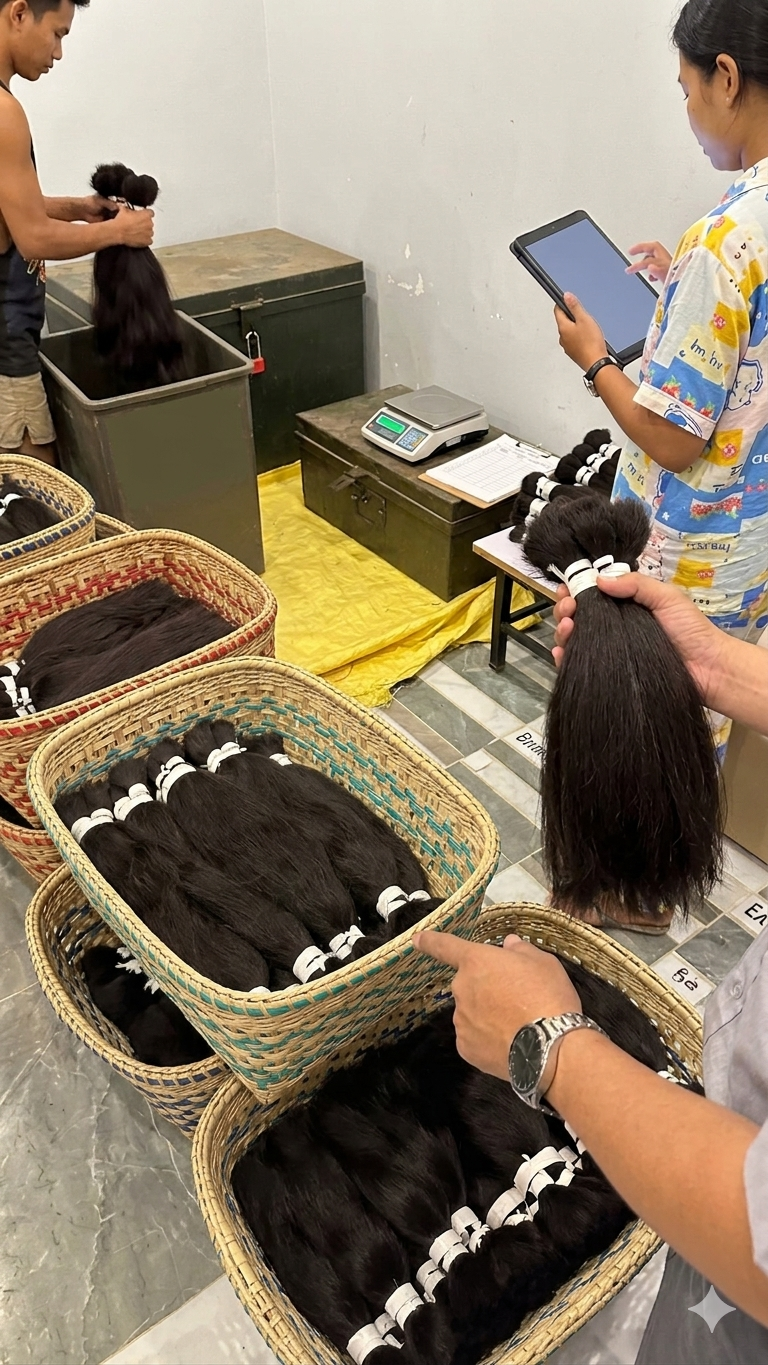
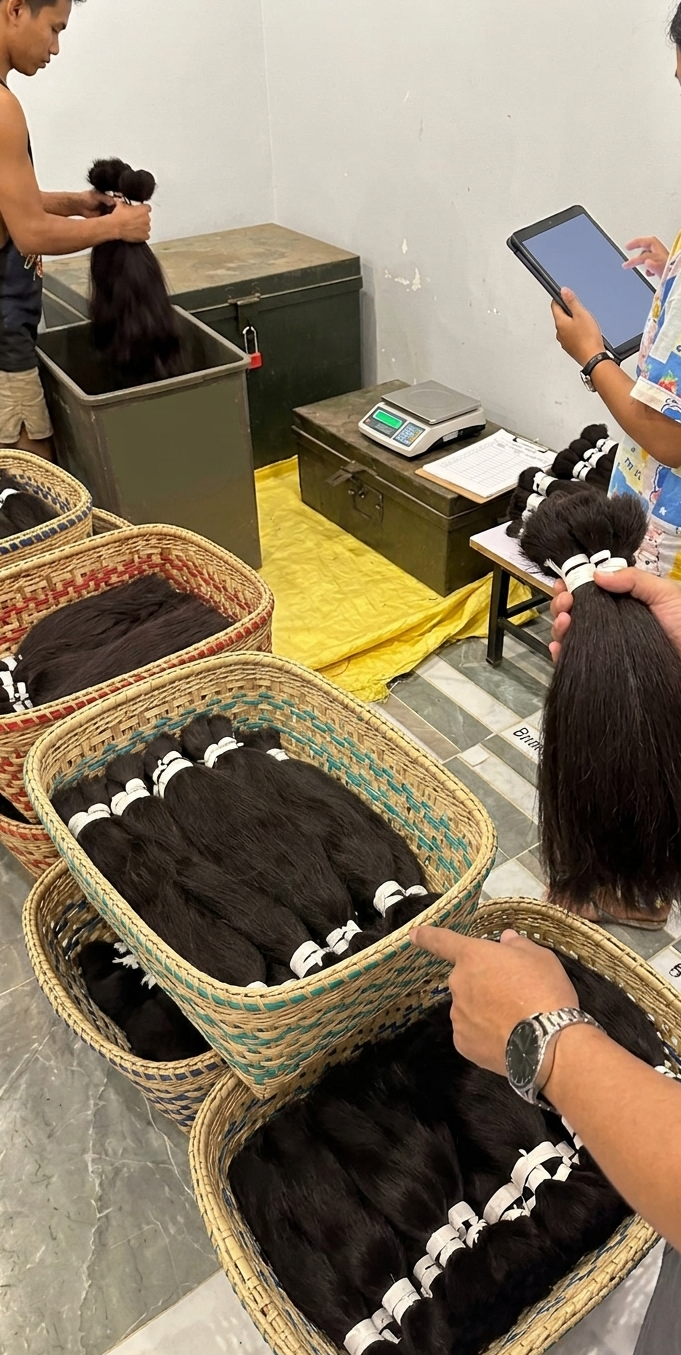
update:fix

diff --git a/app/components/GoldGallery.tsx b/app/components/GoldGallery.tsx
@@ -1,0 +1,77 @@
+"use client";
+
+import { useState } from "react";
+import Image, { type StaticImageData } from "next/image";
+import g1 from "@/public/gold/goldOne.jpg";
+import g2 from "@/public/gold/goldTwo.jpg";
+import g3 from "@/public/gold/goldThree.jpg";
+import g4 from "@/public/gold/goldFour.jpg";
+import g5 from "@/public/gold/goldfive.jpg";
+import g6 from "@/public/gold/goldsix.jpg";
+import g7 from "@/public/gold/goldSeven.jpg";
+import g8 from "@/public/gold/goldEight.jpg";
+import g9 from "@/public/gold/goldNine.jpg";
+import g10 from "@/public/gold/goldTen.jpg";
+
+const IMAGES: StaticImageData[] = [g1, g2, g3, g4, g5, g6, g7, g8, g9, g10];
+
+// Collapsed view = a single row per breakpoint (3 / 4 / 5). These classes hide
+// the overflow until "View all" is pressed, so the gallery stays compact.
+function collapsedClass(i: number) {
+  if (i < 3) return "block";
+  if (i === 3) return "hidden sm:block";
+  if (i === 4) return "hidden lg:block";
+  return "hidden";
+}
+
+export default function GoldGallery() {
+  const [expanded, setExpanded] = useState(false);
+
+  return (
+    <div className="mx-auto mt-8 max-w-5xl sm:mt-10">
+      <div className="grid grid-cols-3 gap-3 sm:grid-cols-4 sm:gap-4 lg:grid-cols-5">
+        {IMAGES.map((img, i) => (
+          <div
+            key={i}
+            className={`group relative aspect-[2/3] overflow-hidden rounded-2xl ring-1 ring-foreground/10 ${
+              expanded ? "block" : collapsedClass(i)
+            }`}
+          >
+            <Image
+              src={img}
+              alt={`Poe Poe Gold jewelry piece ${i + 1}`}
+              fill
+              sizes="(max-width: 640px) 33vw, (max-width: 1024px) 25vw, 20vw"
+              className="object-cover transition-transform duration-500 ease-[cubic-bezier(0.16,1,0.3,1)] group-hover:scale-105"
+            />
+          </div>
+        ))}
+      </div>
+
+      <div className="mt-8 flex justify-center">
+        <button
+          type="button"
+          onClick={() => setExpanded((v) => !v)}
+          aria-expanded={expanded}
+          className="group inline-flex items-center gap-2 rounded-full border border-amber-500/40 bg-amber-500/[0.06] px-5 py-2.5 text-sm font-semibold text-foreground transition-colors duration-300 hover:bg-amber-500/15"
+        >
+          {expanded ? "Show less" : `View all (${IMAGES.length})`}
+          <svg
+            viewBox="0 0 24 24"
+            fill="none"
+            stroke="currentColor"
+            strokeWidth={2.2}
+            strokeLinecap="round"
+            strokeLinejoin="round"
+            className={`h-3.5 w-3.5 transition-transform duration-300 ${
+              expanded ? "rotate-180" : ""
+            }`}
+            aria-hidden
+          >
+            <path d="m6 9 6 6 6-6" />
+          </svg>
+        </button>
+      </div>
+    </div>
+  );
+}

diff --git a/app/components/Benefits.tsx b/app/components/Benefits.tsx
@@ -111,6 +111,22 @@ export default function Benefits() {
     return () => io.disconnect();
   }, []);
 
+  const renderCard = (b: (typeof BENEFITS)[number], i: number) => (
+    <div
+      key={b.title}
+      className={`flex flex-col items-center text-center transition-all duration-700 ease-[cubic-bezier(0.16,1,0.3,1)] motion-reduce:translate-y-0 motion-reduce:opacity-100 motion-reduce:transition-none ${
+        inView ? "translate-y-0 opacity-100" : "translate-y-6 opacity-0"
+      }`}
+      style={{ transitionDelay: `${i * 80}ms` }}
+    >
+      <GlossyIcon icon={b.icon} />
+      <h3 className="mt-6 text-lg font-semibold text-foreground">{b.title}</h3>
+      <p className="mt-3 max-w-[16rem] text-sm leading-relaxed text-foreground/55">
+        {b.desc}
+      </p>
+    </div>
+  );
+
   return (
     <section id="benefits" ref={ref} className="px-1 pb-16 pt-4 sm:pb-24 sm:pt-6">
       {/* Heading */}
@@ -122,25 +138,16 @@ export default function Benefits() {
         Benefits your customers will feel
       </h2>
 
-      {/* Grid */}
-      <div className="mx-auto mt-14 grid max-w-5xl gap-x-8 gap-y-14 sm:mt-16 sm:grid-cols-2 lg:grid-cols-4">
-        {BENEFITS.map((b, i) => (
-          <div
-            key={b.title}
-            className={`flex flex-col items-center text-center transition-all duration-700 ease-[cubic-bezier(0.16,1,0.3,1)] motion-reduce:translate-y-0 motion-reduce:opacity-100 motion-reduce:transition-none ${
-              inView ? "translate-y-0 opacity-100" : "translate-y-6 opacity-0"
-            }`}
-            style={{ transitionDelay: `${i * 80}ms` }}
-          >
-            <GlossyIcon icon={b.icon} />
-            <h3 className="mt-6 text-lg font-semibold text-foreground">
-              {b.title}
-            </h3>
-            <p className="mt-3 max-w-[16rem] text-sm leading-relaxed text-foreground/55">
-              {b.desc}
-            </p>
-          </div>
-        ))}
+      {/* Pyramid: apex on top, three across the base */}
+      <div className="mx-auto mt-14 max-w-5xl sm:mt-16">
+        {/* Apex */}
+        <div className="flex justify-center">
+          <div className="w-full max-w-xs">{renderCard(BENEFITS[0], 0)}</div>
+        </div>
+        {/* Base */}
+        <div className="mt-14 grid grid-cols-1 gap-x-8 gap-y-14 sm:grid-cols-3">
+          {BENEFITS.slice(1).map((b, i) => renderCard(b, i + 1))}
+        </div>
       </div>
     </section>
   );

diff --git a/app/components/PoePoeGold.tsx b/app/components/PoePoeGold.tsx
@@ -1,4 +1,5 @@
 import Reveal from "./Reveal";
+import GoldGallery from "./GoldGallery";
 
 const HIGHLIGHTS = [
   { stat: "Since 1997", label: "Nearly thirty years in gold" },
@@ -89,6 +90,14 @@ export default function PoePoeGold() {
           </Reveal>
         ))}
       </div>
+
+      {/* Workshop gallery */}
+      <Reveal delay={150} className="mt-16 sm:mt-20">
+        <p className="text-center text-xs font-semibold uppercase tracking-[0.18em] text-amber-600">
+          A few pieces from our workshop
+        </p>
+      </Reveal>
+      <GoldGallery />
     </section>
   );
 }

diff --git a/app/components/ComingSoon.tsx b/app/components/ComingSoon.tsx
@@ -2,8 +2,8 @@
 
 import { useEffect, useRef, useState } from "react";
 import Image, { type StaticImageData } from "next/image";
-import evImg from "@/public/coming/ev.jpg";
-import solarImg from "@/public/foau3cba.jpg";
+import evImg from "@/public/evcharging.jpg";
+import solarImg from "@/public/solarFarm.jpg";
 
 const ITEMS: { title: string; desc: string; img: StaticImageData }[] = [
   {
